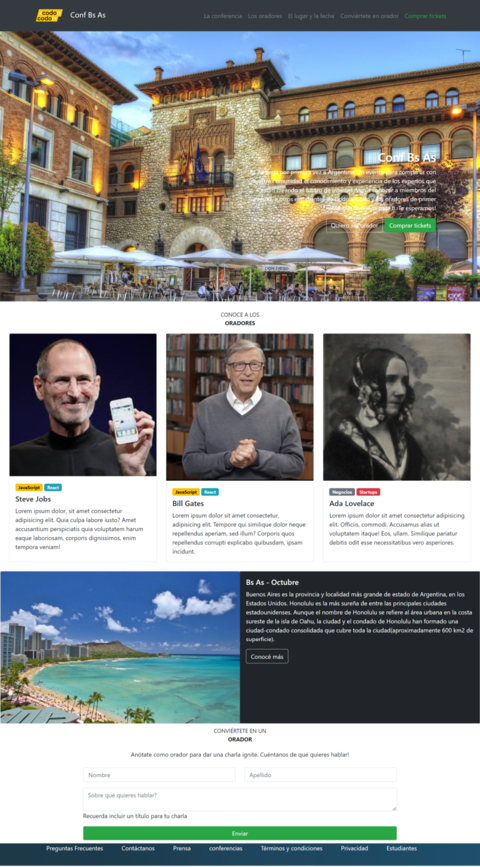
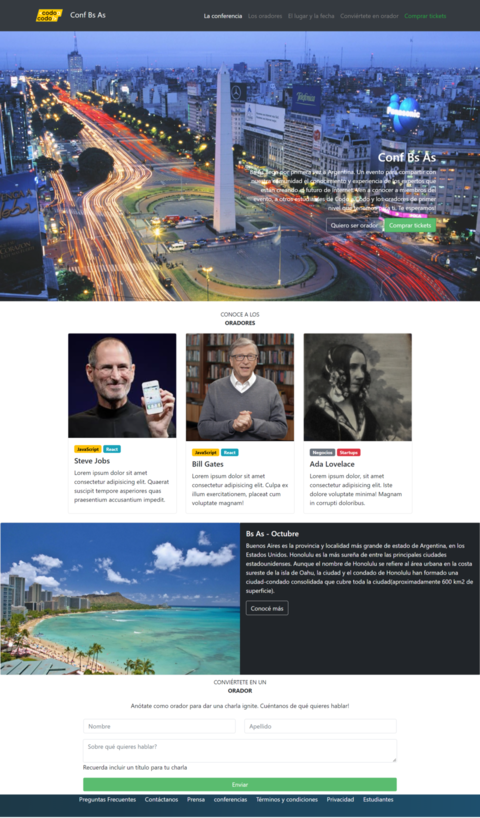
fifth commit

diff --git a/index.html b/index.html
@@ -107,39 +107,39 @@
       <div class="p-4">
         <p class="row text-center titulo-p" >Conoce a los  <strong>ORADORES</strong></p>
 
-        <div class="row row-cols-1 row-cols-md-3 g-4">
-            <div class="col">
+        <div class="row row-cols-1 row-cols-md-3 g-4 justify-content-center">
+            <div class="col w-25">
               <div class="card h-100">
                 <img src="img/steve.jpg" class="card-img-top" alt="foto orador steve jobs">
                 <div class="card-body">
                   <span class="badge badge-js">JavaScript</span>
                   <span class="badge badge-react">React</span>
                   <h5 class="card-title mt-2">Steve Jobs</h5>
-                  <p class="card-text">Lorem ipsum dolor, sit amet consectetur adipisicing elit. Quia culpa labore iusto? Amet accusantium perspiciatis quia voluptatem harum eaque laboriosam, corporis dignissimos, enim tempora veniam!</p>
+                  <p class="card-text">Lorem ipsum dolor sit amet consectetur adipisicing elit. Quaerat suscipit tempore asperiores quas praesentium accusantium impedit.</p>
                 </div>
               </div>
             </div>
 
-            <div class="col">
+            <div class="col w-25">
               <div class="card h-100">
-                <img src="img/bill.jpg" class="card-img-top" alt="...">
+                <img src="img/bill.jpg" class="card-img-top" alt="foto orador Bill Gates">
                 <div class="card-body">
                   <span class="badge badge-js">JavaScript</span>
                   <span class="badge badge-react">React</span>
                   <h5 class="card-title mt-2" >Bill Gates</h5>
-                  <p class="card-text">Lorem ipsum dolor sit amet consectetur, adipisicing elit. Tempore qui similique dolor neque repellendus aperiam, sed illum? Corporis quos repellendus corrupti explicabo quibusdam, ipsam incidunt.</p>
+                  <p class="card-text">Lorem ipsum dolor sit amet consectetur adipisicing elit. Culpa ex illum exercitationem, placeat cum voluptate magnam!</p>
                 </div>
               </div>
             </div>
 
-            <div class="col">
+            <div class="col w-25">
               <div class="card h-100">
                 <img src="img/ada.jpeg" class="card-img-top" alt="..">
                 <div class="card-body">
                   <span class="badge badge-negocios">Negocios</span>
                   <span class="badge badge-startup">Startups</span>
                   <h5 class="card-title mt-2">Ada Lovelace</h5>
-                  <p class="card-text">Lorem ipsum dolor sit amet consectetur adipisicing elit. Officiis, commodi. Accusamus alias ut voluptatem itaque! Eos, ullam. Similique pariatur debitis odit esse necessitatibus vero asperiores.</p>
+                  <p class="card-text">Lorem ipsum dolor, sit amet consectetur adipisicing elit. Iste dolore voluptate minima! Magnam in corrupti doloribus.</p>
                 </div>
               </div>
             </div>

diff --git a/css/styles.css b/css/styles.css
@@ -1,6 +1,4 @@
-header{
-    width: 100%;
-}
+
 
 footer{
     color: white;
@@ -12,7 +10,7 @@ footer{
 }
 
 footer a{
-    margin-right: 45px;
+    margin-right: 20px;
 }
 
 a{
@@ -37,7 +35,7 @@ a{
 }
 
 .btn-green{
-    background-color:#29a744;
+    background-color:#5abc6f;
     color:white;
 }
 

diff --git a/readme.md b/readme.md
@@ -13,5 +13,5 @@
 ### Resultado final
 #### Les dejo una imagen del trabajo realizado
 
-![Alt text](/img/replica-final.png "resultado del trabajo integrador")
+![Alt text](/img/replica-final.png "imagen final resultado")
 #### Pronto subire link del deploy
